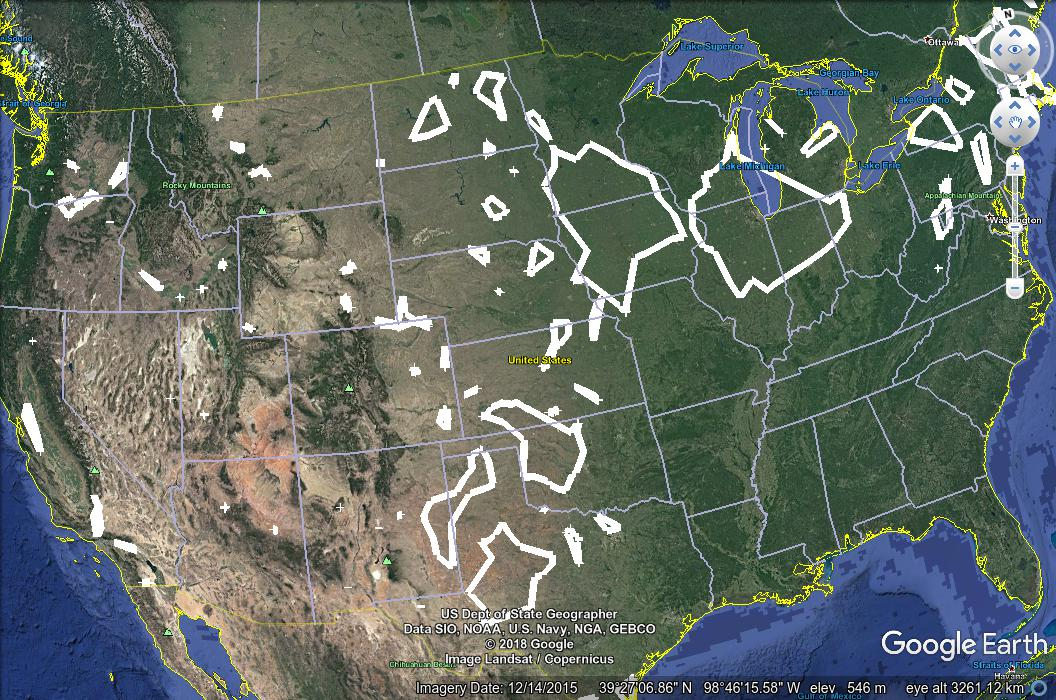
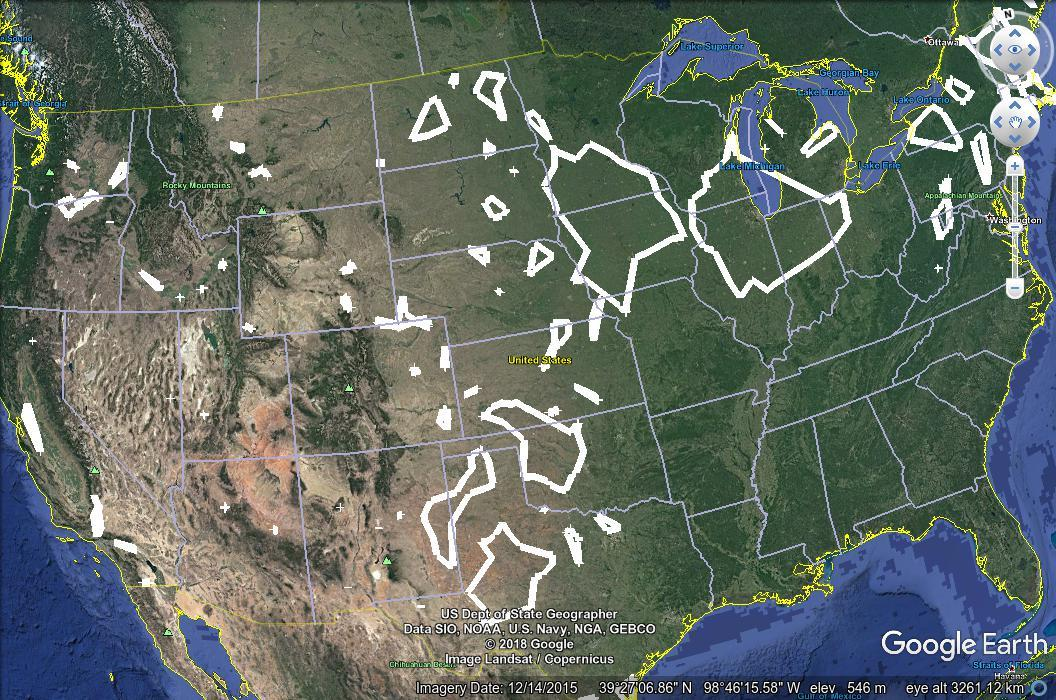
Make images smaller

diff --git a/2018/02/08/regionating-with-postgis.html.md b/2018/02/08/regionating-with-postgis.html.md
@@ -31,7 +31,7 @@ point, and annotates it with its type, manufacturer, capacity, and many other
 characteristics. In this sample image, notice how the data are distributed,
 with compact clusters of many points, scattered sparsely across the landscape.
 
-<img src="/blog/2018/02/08/regionating-with-postgis/windfarms-dataset.png" alt="Wind turbine dataset" /><br />
+<img src="/blog/2018/02/08/regionating-with-postgis/windfarms-dataset.jpg" alt="Wind turbine dataset" /><br />
 
 I wanted data sets with different types of geometric objects, so the [second
 data set](https://earthquake.usgs.gov/hazards/qfaults/) I chose describes
@@ -45,7 +45,7 @@ with other attributes, though we won’t use those annotations here. The faults
 are distributed in less obvious clusters than the wind turbines, though some
 clustering is still easily visible.
 
-<img src="/blog/2018/02/08/regionating-with-postgis/faults-dataset.png" alt="Faults dataset" /><br />
+<img src="/blog/2018/02/08/regionating-with-postgis/faults-dataset.jpg" alt="Faults dataset" /><br />
 
 The [last data
 set](https://www.sciencebase.gov/catalog/item/59667039e4b0d1f9f05cf2ff) uses a
@@ -56,7 +56,7 @@ be comprehensive, it serves nicely to experiment with regionating polygon data.
 Note that across the area covered by the dataset, the polygons are quite
 thickly distributed.
 
-<img src="/blog/2018/02/08/regionating-with-postgis/wildfire-dataset.png" alt="Wildfire dataset" /><br />
+<img src="/blog/2018/02/08/regionating-with-postgis/wildfire-dataset.jpg" alt="Wildfire dataset" /><br />
 
 ## Regionating with Google Earth Pro
 
